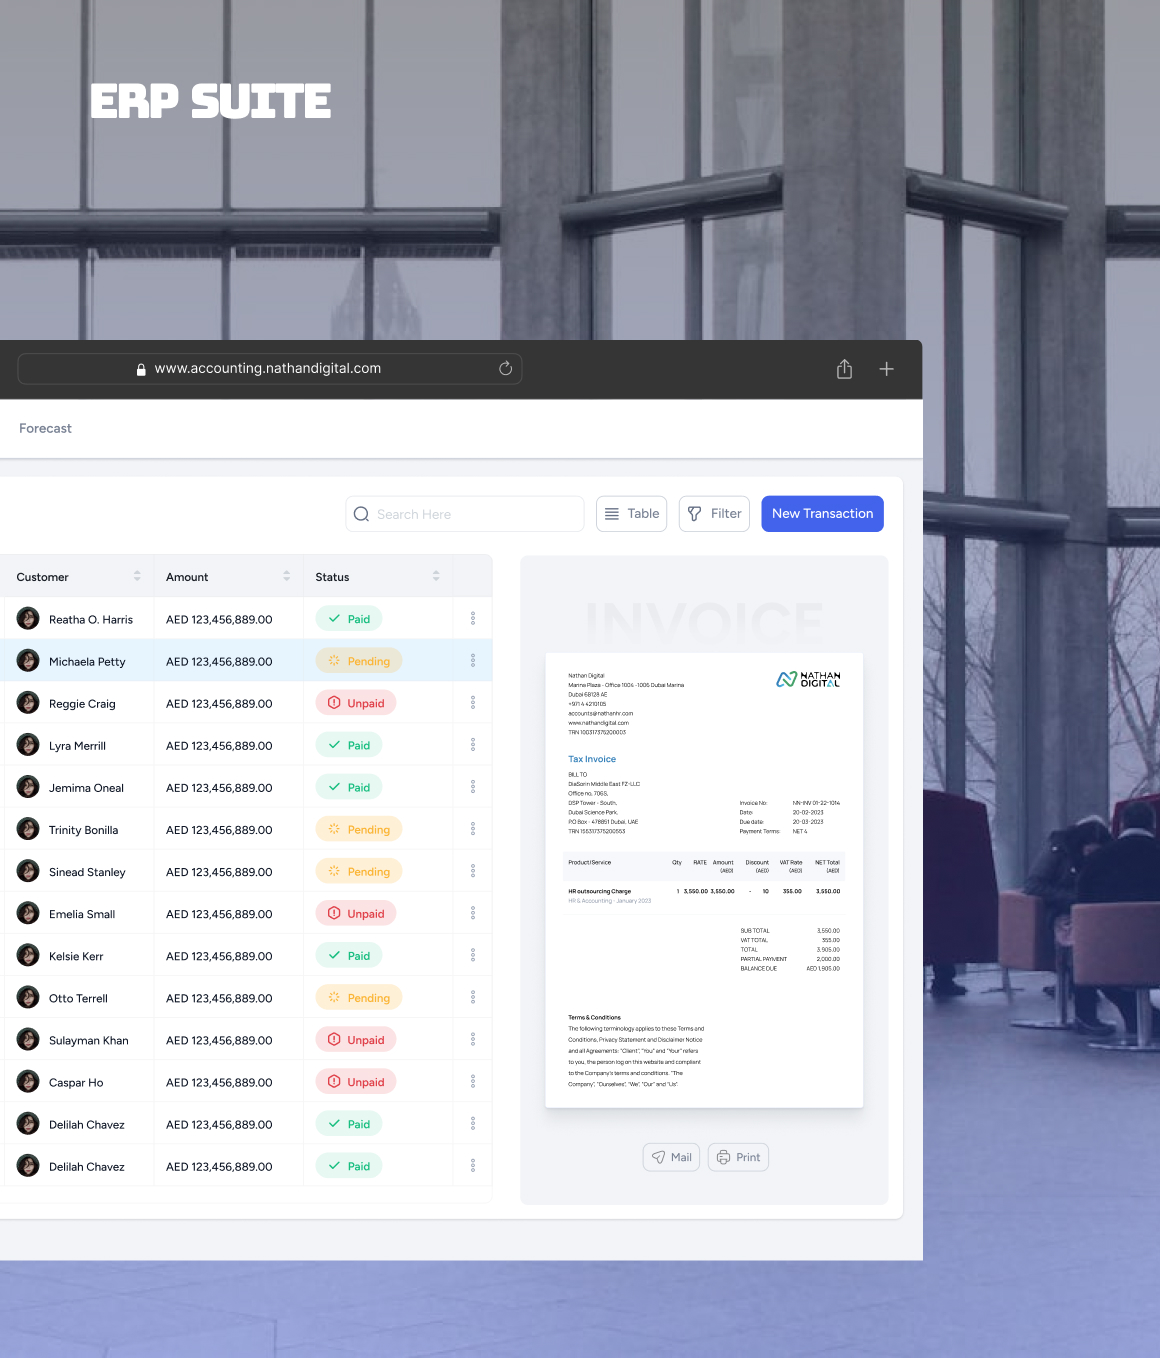
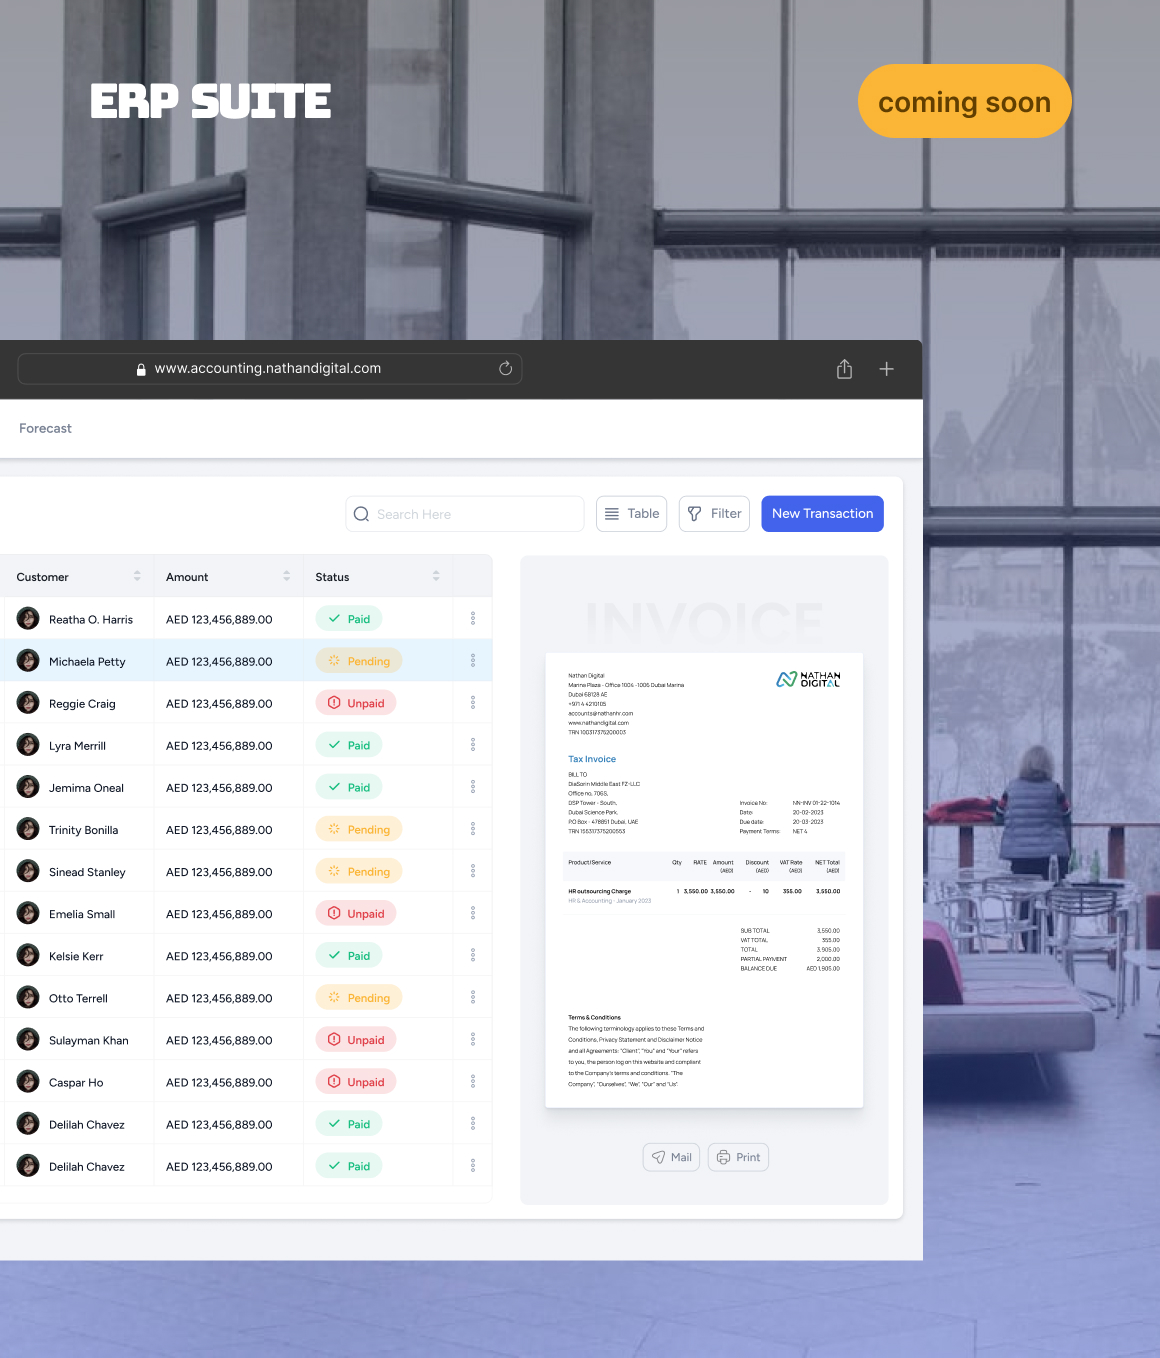
.

Changed region(s): [[0.031, 0.0, 1.0, 0.8351], [0.9931, 0.3093, 1.0, 0.3402]]

diff --git a/src/components/Home/projectGrid.js b/src/components/Home/projectGrid.js
@@ -2,12 +2,12 @@ import { useEffect } from "react";
 import arr from "../Home/arrow-svg.svg";
 import arrowSvg from "../Home/arrowcursor.svg";
 import { Link } from "react-router-dom";
-import hourglassimg from "../Projects/cover/hourglasscover.jpg"
-import digitalmenucover from "../Projects/cover/digitalmenucover.jpg"
+import hourglassimg from "../Projects/cover/hourglasscover.jpg";
+import digitalmenucover from "../Projects/cover/digitalmenucover.jpg";
 
-import designsystemcover from "../Projects/cover/designsystemcover.jpg"
+import designsystemcover from "../Projects/cover/designsystemcover.jpg";
 
-import erpcover from "../Projects/cover/erpcover.jpg"
+import erpcover from "../Projects/cover/erpcover.jpg";
 
 const ProjectGrid = () => {
   useEffect(() => {
@@ -52,13 +52,9 @@ const ProjectGrid = () => {
         <h4 className="mgb5">Selected Work</h4>
 
         <div className="grid-container">
-
-        <div className="project grow-rotate">
+          <div className="project grow-rotate">
             <Link className="curse" to="/Digitalmenu">
-              <img
-                src={digitalmenucover}
-                class="project-imgbox"
-              ></img>
+              <img src={digitalmenucover} class="project-imgbox"></img>
 
               <div className="infobox">
                 <p className="lg project_title ">
@@ -71,10 +67,7 @@ const ProjectGrid = () => {
 
           <div className="project grow-rotate project-margintop">
             <Link className="curse" to="/hourglass">
-              <img
-                src={hourglassimg}
-                class="project-imgbox"
-              ></img>
+              <img src={hourglassimg} class="project-imgbox"></img>
 
               <div className="infobox">
                 <p className="lg project_title white">
@@ -87,10 +80,7 @@ const ProjectGrid = () => {
 
           <div className="project grow-rotate">
             <Link className="curse" to="/Designsystem">
-              <img
-                src={designsystemcover}
-                class="project-imgbox"
-              ></img>
+              <img src={designsystemcover} class="project-imgbox"></img>
 
               <div className="infobox">
                 <p className="lg project_title white">
@@ -101,19 +91,15 @@ const ProjectGrid = () => {
             </Link>
           </div>
 
-          <div class="project grow-rotate project-margintop">
-            <Link className="curse" to="/accounting">
-              <img
-                class="project-imgbox"
-                src={erpcover}
-                alt=""
-              />
+          <div className="project grow-rotate project-margintop">
+            <a href="#" className="curse">
+              <img className="project-imgbox" src={erpcover} alt="" />
 
               <div className="infobox">
                 <p className="lg project_title ">Nathan Digital Accounting</p>
                 <img className="arr" src={arr} alt="" />
               </div>
-            </Link>
+            </a>
           </div>
         </div>
       </div>

diff --git a/src/components/Home/aboutme.js b/src/components/Home/aboutme.js
@@ -15,21 +15,18 @@ const Aboutme = () => {
           </p>
 
           <p className="md subtext">
-            We started out, just the two of us, in an East London basement
-            studio back in 2015. Fast forward to today, we're a twenty-person
-            team of designers, developers, project managers, copywriters and
-            founders. Working from home, long before WFH was even a thing, we
-            criss-cross timezones and collaborate across borders - mixing up
-            work and play, every day.
-
-
-       
-
+            I am a generalist at heart, i got into product design because it
+            allowed me to pursue my interest in creative, business and tech
+            field. I’ve since worked on a range of problem for various industries including -
+            finance, education, property, and social. i am looking
+            for impactful, purposeful work with a diverse team of talented
+            people.
           </p>
-          <Link className="curse" to="/whoisthisdude">
-              <button className="top-lg aboutmebtn">Get to know me and my interests</button>
-            </Link>
-
+          <Link className="curse" >
+            <button className="top-lg aboutmebtn">
+              Get to know me and my interests - coming soon.
+            </button>
+          </Link>
         </div>
       </div>
 

diff --git a/src/components/Home/precision.js b/src/components/Home/precision.js
@@ -3,7 +3,7 @@ import initReveal from '../../js/reveal'
 
 const Precision = () => {
   useEffect(() => {
-    const text = "Precision-Driven Designs for Maximum Impact. I go beyond aesthetics, delving deep into consumer behavior and market research to craft websites that aren't just visually appealing but strategically engineered for usability & conversion.";
+    const text = "Precision-Driven Designs for Maximum Impact. I go beyond aesthetics, delving deep into consumer behavior and market research to craft products that aren't just visually appealing but strategically engineered for usability & conversion.";
     console.log('caled');
     const words = text.split(' ');
     const parentElement = document.getElementById('precision-paragraph');
